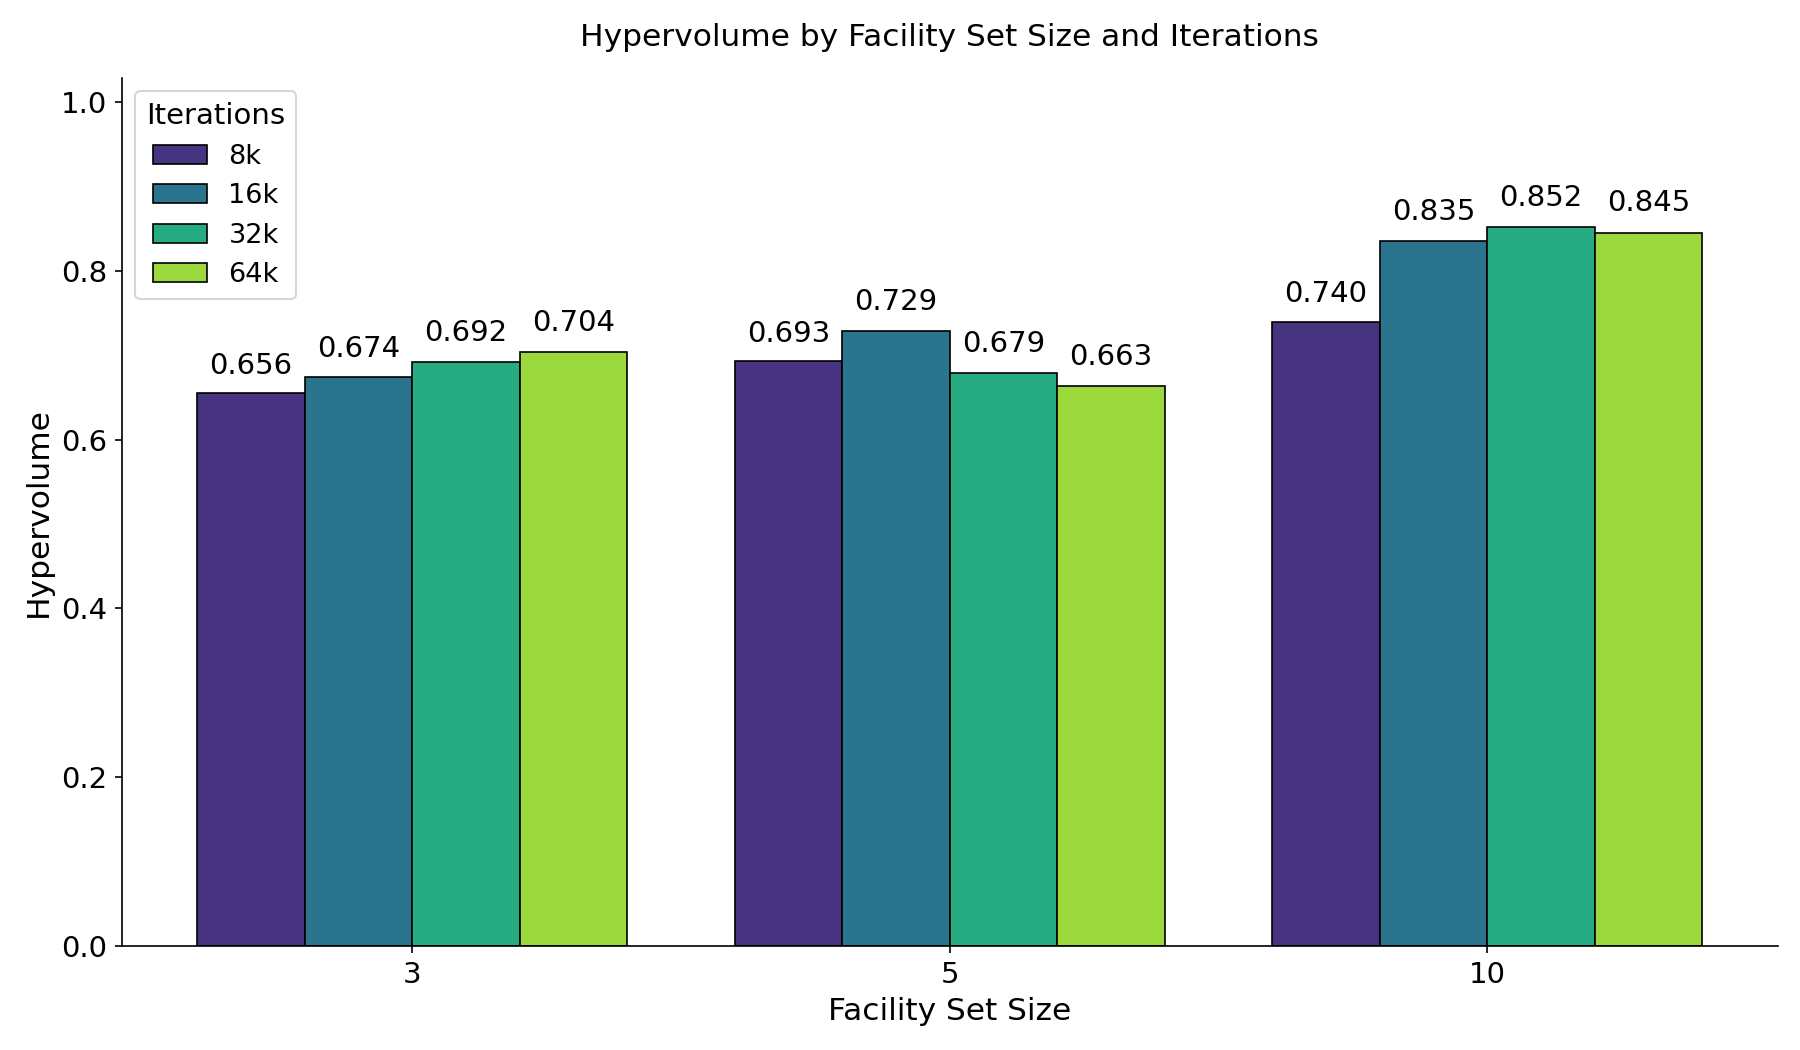
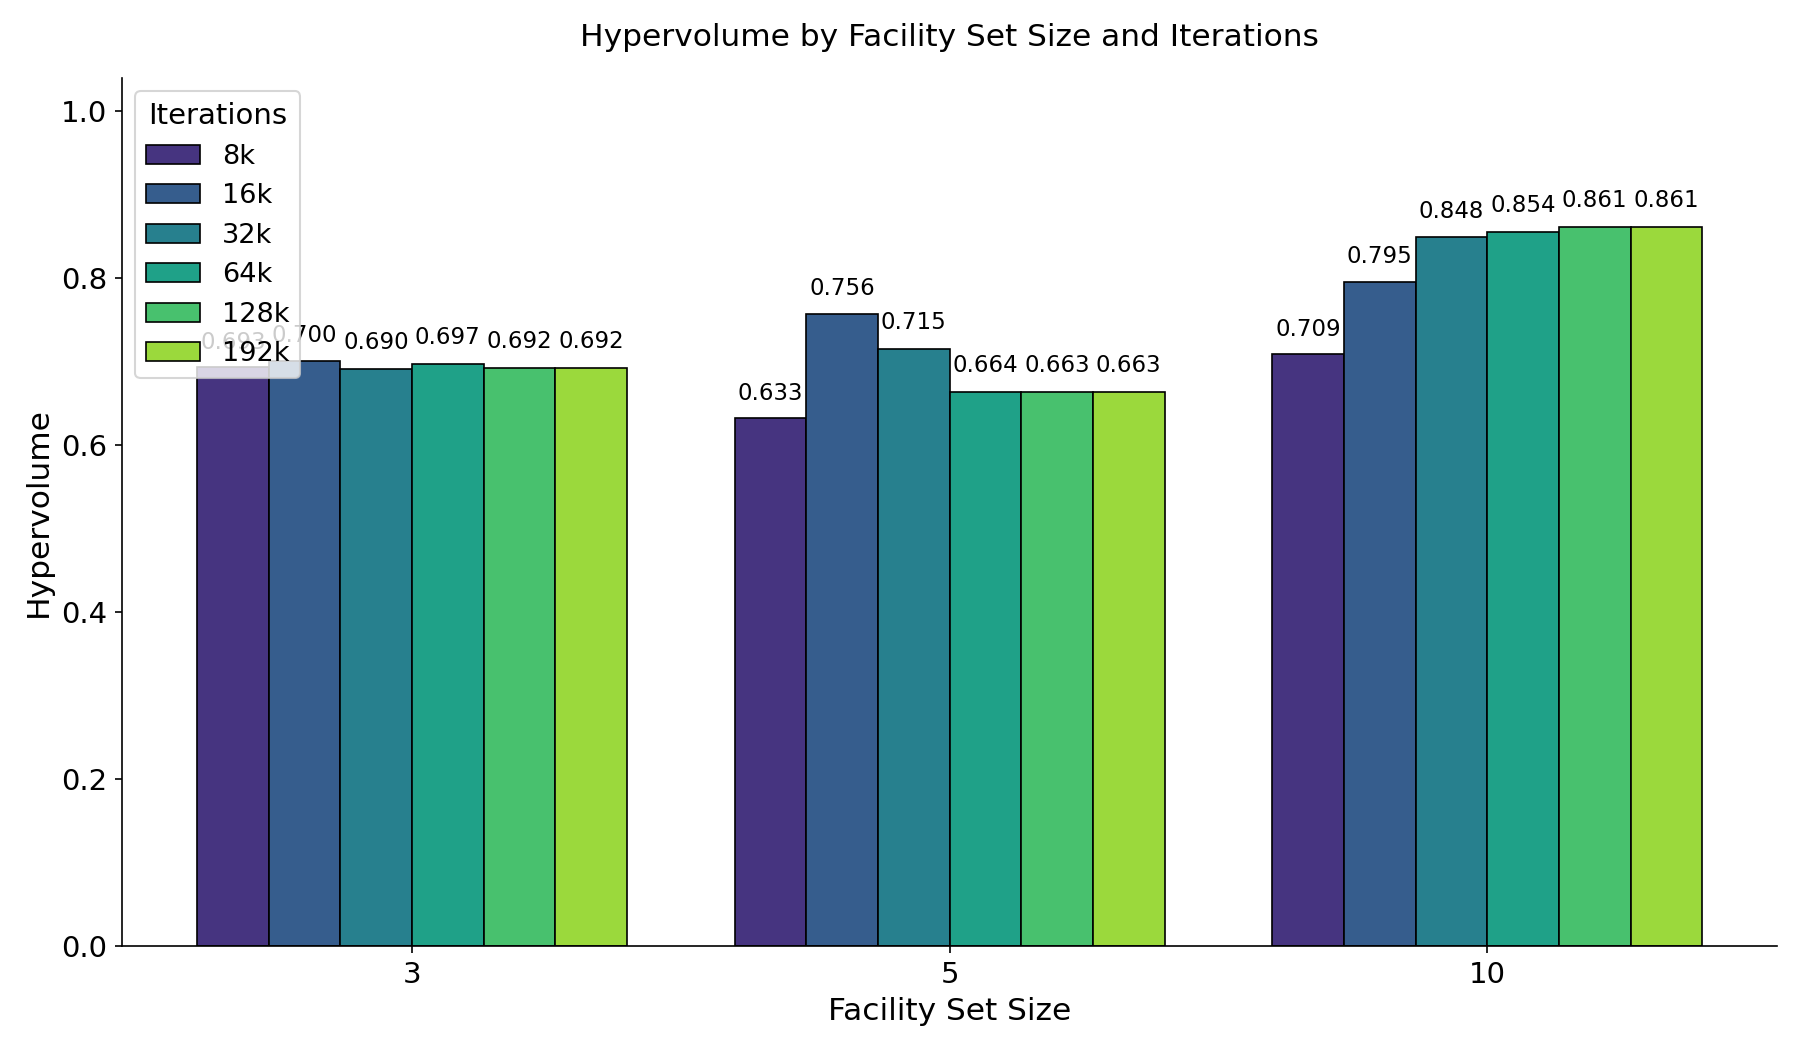
Updated result calculation and recomputed.

diff --git a/analysis/experiments/get_best_known.py b/analysis/experiments/get_best_known.py
@@ -1,0 +1,124 @@
+"""Train single-model for each (facilities, model) combination and collect best
+utility values. Outputs a Python dict ready to paste into analyse_metrics.py.
+"""
+
+import concurrent.futures
+import os
+import re
+import subprocess
+import sys
+from pathlib import Path
+
+PROJECT_ROOT = Path(__file__).parent.parent.parent
+
+FACILITIES = [3, 5, 10]
+MODELS = ["huff", "partially_binary", "pareto_huff"]
+SAMPLES = 3
+
+MAX_WORKERS = max(os.cpu_count() or 4, 6)
+
+FACILITY_ITERATIONS = {3: 30000, 5: 100000, 10: 200000}
+
+
+def run_one(fac, model, sample_idx):
+    rank_file = PROJECT_ROOT / f"ranks_{model}_{fac}_{sample_idx}.dat"
+    env = os.environ.copy()
+    env["MAX_FACILITIES"] = str(fac)
+    env["TRAINING_MODE"] = "true"
+    env["BEHAVIOUR_MODEL"] = model
+    env["RANK_FILE"] = str(rank_file)
+    env["ITERATIONS"] = str(FACILITY_ITERATIONS[fac])
+
+    try:
+        proc = subprocess.run(
+            ["go", "run", "."],
+            capture_output=True,
+            text=True,
+            env=env,
+            timeout=1800,
+            cwd=str(PROJECT_ROOT),
+        )
+        if proc.returncode != 0:
+            return {"fac": fac, "model": model, "sample": sample_idx,
+                    "error": f"exit {proc.returncode}"}
+
+        match = re.search(r"Best solution found: .*?\(([\d.]+)%\)", proc.stdout)
+        if not match:
+            return {"fac": fac, "model": model, "sample": sample_idx,
+                    "error": "parse failed"}
+
+        return {"fac": fac, "model": model, "sample": sample_idx,
+                "value": float(match.group(1))}
+    except subprocess.TimeoutExpired:
+        return {"fac": fac, "model": model, "sample": sample_idx,
+                "error": "timeout"}
+    finally:
+        if rank_file.exists():
+            rank_file.unlink()
+
+
+def main():
+    tasks = []
+    for fac in FACILITIES:
+        for model in MODELS:
+            for s in range(SAMPLES):
+                tasks.append((fac, model, s))
+
+    total = len(tasks)
+    print(f"Running {total} training tasks ({len(FACILITIES)} sizes x {len(MODELS)} models x {SAMPLES} samples)")
+    print(f"Max workers: {MAX_WORKERS}")
+    for fac in FACILITIES:
+        print(f"  {fac} facilities: {FACILITY_ITERATIONS[fac]} iterations")
+    print()
+
+    results_by_fac_model = {}
+    for fac in FACILITIES:
+        results_by_fac_model[fac] = {}
+        for model in MODELS:
+            results_by_fac_model[fac][model] = []
+
+    completed = 0
+    with concurrent.futures.ProcessPoolExecutor(max_workers=MAX_WORKERS) as executor:
+        future_map = {
+            executor.submit(run_one, fac, model, s): (fac, model, s)
+            for fac, model, s in tasks
+        }
+
+        for future in concurrent.futures.as_completed(future_map):
+            completed += 1
+            result = future.result()
+            fac = result["fac"]
+            model = result["model"]
+
+            if "error" in result:
+                print(f"[{completed}/{total}] {fac}/{model} sample {result['sample']}: ERROR ({result['error']})     ",
+                      file=sys.stderr)
+            else:
+                results_by_fac_model[fac][model].append(result["value"])
+                print(f"[{completed}/{total}] {fac}/{model} sample {result['sample']}: {result['value']:.6f}%")
+
+    print("\nBEST_KNOWN = {")
+    for fac in FACILITIES:
+        values = []
+        for model in MODELS:
+            samples = results_by_fac_model[fac][model]
+            best = max(samples) if samples else 0.0
+            values.append(best)
+        if all(v > 0 for v in values):
+            vals_str = ", ".join(f"{v:.6f}" for v in values)
+            print(f"    {fac}: [{vals_str}],")
+        else:
+            print(f"    # {fac}: missing data", file=sys.stderr)
+    print("}")
+
+    # Clean up any leftover rank files
+    for fac in FACILITIES:
+        for model in MODELS:
+            for s in range(SAMPLES):
+                p = PROJECT_ROOT / f"ranks_{model}_{fac}_{s}.dat"
+                if p.exists():
+                    p.unlink()
+
+
+if __name__ == "__main__":
+    main()

diff --git a/analysis/evaluate_facility_sets.py b/analysis/evaluate_facility_sets.py
@@ -163,6 +163,32 @@ def partially_binary_utility(p, X):
     
     return to_percent(utility, total)
 
+def binary_utility(p, X):
+    total = 0.0
+    utility = 0.0
+    
+    for i, dp in enumerate(p.demands):
+        total += dp.weight
+        
+        bestJ = -1.0
+        for jIdx, jLoc in enumerate(p.J):
+            attr = attractiveness(p.distance(i, jLoc), p.QJ[jIdx])
+            if attr > bestJ:
+                bestJ = attr
+        
+        bestX = -1.0
+        for xLoc in X:
+            attr = attractiveness(p.distance(i, xLoc), p.QLByLoc[xLoc])
+            if attr > bestX:
+                bestX = attr
+        
+        if bestX > bestJ:
+            utility += dp.weight
+        elif bestX == bestJ:
+            utility += dp.weight / 2.0
+    
+    return to_percent(utility, total)
+
 def pareto_huff_utility(p, X):
     total = 0.0
     utility = 0.0
@@ -225,9 +251,11 @@ if __name__ == "__main__":
     print("Evaluating facility set {0, 1, 2, 3, 4, 5, 6, 7, 8, 9}:")
     print(f"  HuffModel: {huff_utility(p, facility_set_1):.6f}%")
     print(f"  PartiallyBinaryModel: {partially_binary_utility(p, facility_set_1):.6f}%")
+    print(f"  BinaryModel: {binary_utility(p, facility_set_1):.6f}%")
     print(f"  ParetoHuffModel: {pareto_huff_utility(p, facility_set_1):.6f}%")
     
     print("\nEvaluating facility set {0, 1, 2, 3, 4, 5, 6, 7, 8, 49}:")
     print(f"  HuffModel: {huff_utility(p, facility_set_2):.6f}%")
     print(f"  PartiallyBinaryModel: {partially_binary_utility(p, facility_set_2):.6f}%")
+    print(f"  BinaryModel: {binary_utility(p, facility_set_2):.6f}%")
     print(f"  ParetoHuffModel: {pareto_huff_utility(p, facility_set_2):.6f}%")

diff --git a/analysis/metrics/analyse_metrics.py b/analysis/metrics/analyse_metrics.py
@@ -1,8 +1,4 @@
 """Analyse raw_results.json and compute metrics for each configuration.
-
-Produces robustness_metrics.csv with columns:
-max_facilities, iterations, solution_stability, hypervolume, price_of_robustness,
-optimality_gap, coefficient_of_variation
 """
 
 import csv
@@ -13,9 +9,9 @@ from collections import defaultdict
 from pathlib import Path
 
 BEST_KNOWN = {
-    3: [23.422252, 31.715301, 33.605939],
-    5: [29.714386, 38.163530, 42.447363],
-    10: [40.585970, 46.079790, 56.232962],
+    3: [24.433328, 33.124437, 34.473338],
+    5: [31.558339, 40.442048, 44.917027],
+    10: [41.307643, 47.663664, 58.020932],
 }
 
 
@@ -146,10 +142,11 @@ def price_of_robustness(runs, facilities):
         if "knee_point" in r and r["knee_point"] and "objectives" in r["knee_point"]:
             obj = r["knee_point"]["objectives"]
             if len(obj) == 3:
-                f_robust = mean(obj)
-                f_best = mean(best)
-                if f_best != 0:
-                    ratios.append(f_robust / f_best)
+                for dim in range(3):
+                    f_robust = obj[dim]
+                    f_best = best[dim]
+                    if f_best != 0:
+                        ratios.append(f_robust / f_best)
 
     return mean(ratios) if ratios else 0.0
 

diff --git a/config/config.go b/config/config.go
@@ -27,6 +27,9 @@ type Config struct {
 	RankFile        string  // File to save/load rank scores
 	PerformTraining bool    // If true, run optimization; else use stored ranks
 
+	// Customer behaviour model to optimise during training
+	BehaviourModel string // "huff", "binary", "partially_binary", or "pareto_huff"
+
 	// Output / reporting
 	CheckedSolutionsFile string // TSV file with all evaluated solutions and objectives
 	JSONMode             bool   // If true, output results as JSON to stdout
@@ -46,6 +49,7 @@ func Load() *Config {
 		Alpha:                envFloat("ALPHA", 0.1),
 		RankFile:             envString("RANK_FILE", "ranks.dat"),
 		PerformTraining:      envBool("TRAINING_MODE", true),
+		BehaviourModel:       envString("BEHAVIOUR_MODEL", "huff"),
 		CheckedSolutionsFile: envString("CHECKED_SOLUTIONS_FILE", "checked_solutions.tsv"),
 		JSONMode:             envBool("JSON_MODE", false),
 		TwoDMode:             envBool("TWO_D_MODE", false),

diff --git a/main.go b/main.go
@@ -20,6 +20,19 @@ type JSONResult struct {
 	ParetoFront   []*solution.Solution `json:"pareto_front"`
 }
 
+func parseBehaviourModel(name string) problem.CustomerBehaviourModel {
+	switch name {
+	case "binary":
+		return problem.BinaryModel{}
+	case "partially_binary":
+		return problem.PartiallyBinaryModel{}
+	case "pareto_huff":
+		return problem.ParetoHuffModel{}
+	default:
+		return problem.HuffModel{}
+	}
+}
+
 func AllBehaviourModels(twoDMode bool) []problem.CustomerBehaviourModel {
 	if twoDMode {
 		return []problem.CustomerBehaviourModel{
@@ -42,7 +55,7 @@ func main() {
 		log.Fatalf("Failed to load problem data: %v", err)
 	}
 
-	behaviourModel := problem.HuffModel{}
+	behaviourModel := parseBehaviourModel(cfg.BehaviourModel)
 
 	agent := ranking.NewAgent(cfg, prob, behaviourModel)
 

diff --git a/analysis/experiments/run_experiments.py b/analysis/experiments/run_experiments.py
@@ -1,7 +1,4 @@
 """Run the robust-facility-location solver with multiple configurations in parallel.
-
-Collects 20 samples per (iterations, max_facilities) combination and saves
-raw JSON results to raw_results.json.
 """
 
 import concurrent.futures
@@ -13,7 +10,7 @@ import time
 from itertools import product
 from pathlib import Path
 
-ITERATIONS_LIST = [8000, 16000, 32000, 64000]
+ITERATIONS_LIST = [8000, 16000, 32000, 64000, 128000, 192000]
 FACILITIES_LIST = [3, 5, 10]
 SAMPLES = 100
 MAX_WORKERS = max(os.cpu_count() or 4, 6)

diff --git a/analysis/metrics/visualise_metrics.py b/analysis/metrics/visualise_metrics.py
@@ -1,4 +1,5 @@
-#!/usr/bin/env python3
+"""Visualise robustness metrics across configurations as bar charts.
+"""
 
 import matplotlib
 matplotlib.use('Agg')
@@ -79,7 +80,7 @@ def create_chart(data, facility_sizes, iteration_counts, metric, output_dir):
                     f'{val:.3f}',
                     ha='center',
                     va='bottom',
-                    fontsize=14,
+                    fontsize=11,
                 )
 
     tick_fontsize = 14

diff --git a/analysis/experiments/run_iqm_experiments.py b/analysis/experiments/run_iqm_experiments.py
@@ -1,4 +1,5 @@
-#!/usr/bin/env python3
+"""Run the robust-facility-location solver multiple times and collect knee points at regular intervals.
+"""
 
 import concurrent.futures
 import json

diff --git a/analysis/iqm/visualise_iqm_history.py b/analysis/iqm/visualise_iqm_history.py
@@ -1,4 +1,5 @@
-#!/usr/bin/env python3
+"""Visualise the history of interquartile means (IQM) of knee point objectives across iterations.
+"""
 
 import json
 import sys

diff --git a/analysis/pareto/visualise_pareto.py b/analysis/pareto/visualise_pareto.py
@@ -1,4 +1,5 @@
-#!/usr/bin/env python3
+"""Visualise the 3D Pareto front of Huff, Partially Binary, and Pareto-Huff models.
+"""
 
 import sys
 import numpy as np

diff --git a/analysis/pareto/visualise_2d.py b/analysis/pareto/visualise_2d.py
@@ -1,4 +1,5 @@
-#!/usr/bin/env python3
+"""Visualise the 2D Pareto front of Huff vs Partially Binary models.
+"""
 
 import sys
 import numpy as np
